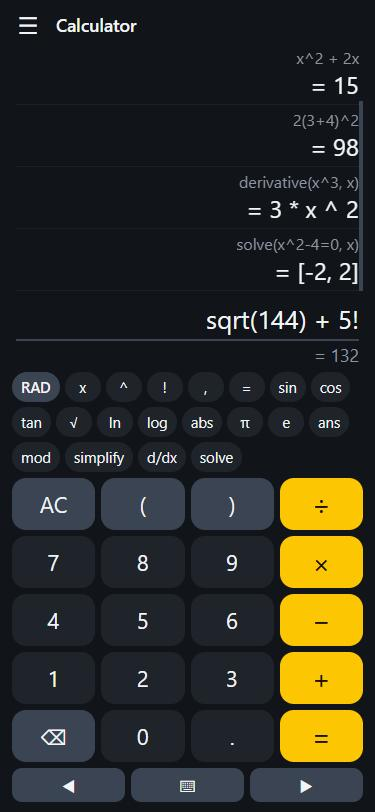
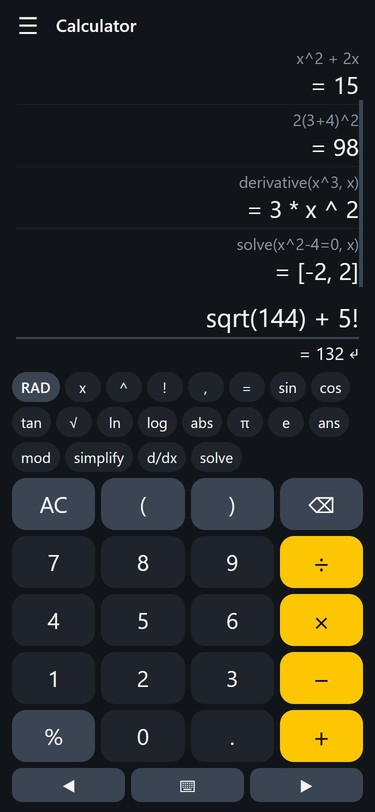
Rearrange the calculator keypad and drop the = key
Backspace moves to the top-right where divide was, the operators slide down
one row, and the old = spot becomes a % key. The live result under the
input is now the save button (tap it, or press Enter) since there is no =
key. Retake the README calculator screenshot to match.

diff --git a/www/index.html b/www/index.html
@@ -64,27 +64,27 @@
         <button data-action="clear" class="fn">AC</button>
         <button data-insert="(" class="fn">(</button>
         <button data-insert=")" class="fn">)</button>
-        <button data-insert="/" class="op">÷</button>
+        <button data-action="back" class="fn" aria-label="Backspace">⌫</button>
 
         <button data-insert="7">7</button>
         <button data-insert="8">8</button>
         <button data-insert="9">9</button>
-        <button data-insert="*" class="op">×</button>
+        <button data-insert="/" class="op">÷</button>
 
         <button data-insert="4">4</button>
         <button data-insert="5">5</button>
         <button data-insert="6">6</button>
-        <button data-insert="-" class="op">−</button>
+        <button data-insert="*" class="op">×</button>
 
         <button data-insert="1">1</button>
         <button data-insert="2">2</button>
         <button data-insert="3">3</button>
-        <button data-insert="+" class="op">+</button>
+        <button data-insert="-" class="op">−</button>
 
-        <button data-action="back" class="fn">⌫</button>
+        <button data-insert="%" class="fn">%</button>
         <button data-insert="0">0</button>
         <button data-insert=".">.</button>
-        <button data-action="equals" class="op eq">=</button>
+        <button data-insert="+" class="op">+</button>
       </div>
 
       <div class="caret-row">

diff --git a/www/app.js b/www/app.js
@@ -42,9 +42,12 @@ function moveCaret(delta) {
 function refresh() {
   preview.classList.remove("error");
   const v = input.value.trim();
-  if (!v) { preview.textContent = ""; return; }
+  if (!v) { preview.textContent = ""; preview.classList.remove("tap"); return; }
   const r = Calc.evaluate(v, new Map(scope), mode); // copy: previewing must not change state
-  preview.textContent = r.ok && r.text && r.text !== v ? "= " + Calc.group(r.text) : "";
+  const show = r.ok && r.text && r.text !== v;
+  // There is no = key: tapping the live result (or pressing Enter) saves it to the history.
+  preview.textContent = show ? "= " + Calc.group(r.text) + "  ↵" : "";
+  preview.classList.toggle("tap", !!show);
 }
 
 function equals() {
@@ -132,6 +135,9 @@ function toggleKeyboard() {
   input.blur();
   input.focus();
 }
+
+preview.addEventListener("mousedown", (e) => e.preventDefault()); // keep the caret in the input
+preview.addEventListener("click", () => { if (preview.classList.contains("tap")) equals(); });
 
 input.addEventListener("input", refresh);
 input.addEventListener("keydown", (e) => {

diff --git a/www/style.css b/www/style.css
@@ -332,3 +332,7 @@ details.card[open] > summary::after { transform: rotate(90deg); }
 details.lib > summary { font-size: 0.98rem; font-weight: 400; }
 .lib-meta { color: var(--muted); font-size: 0.85rem; flex: none; }
 pre.license { margin: 8px 0 0; max-height: 220px; overflow: auto; background: #0c0f12; border-radius: 10px; padding: 10px; font: 0.75rem/1.4 ui-monospace, Consolas, monospace; white-space: pre-wrap; color: var(--muted); }
+
+/* The live result doubles as the save button (there is no = key). */
+.preview.tap { color: var(--text); cursor: pointer; }
+.preview.tap:active { color: var(--op); }
